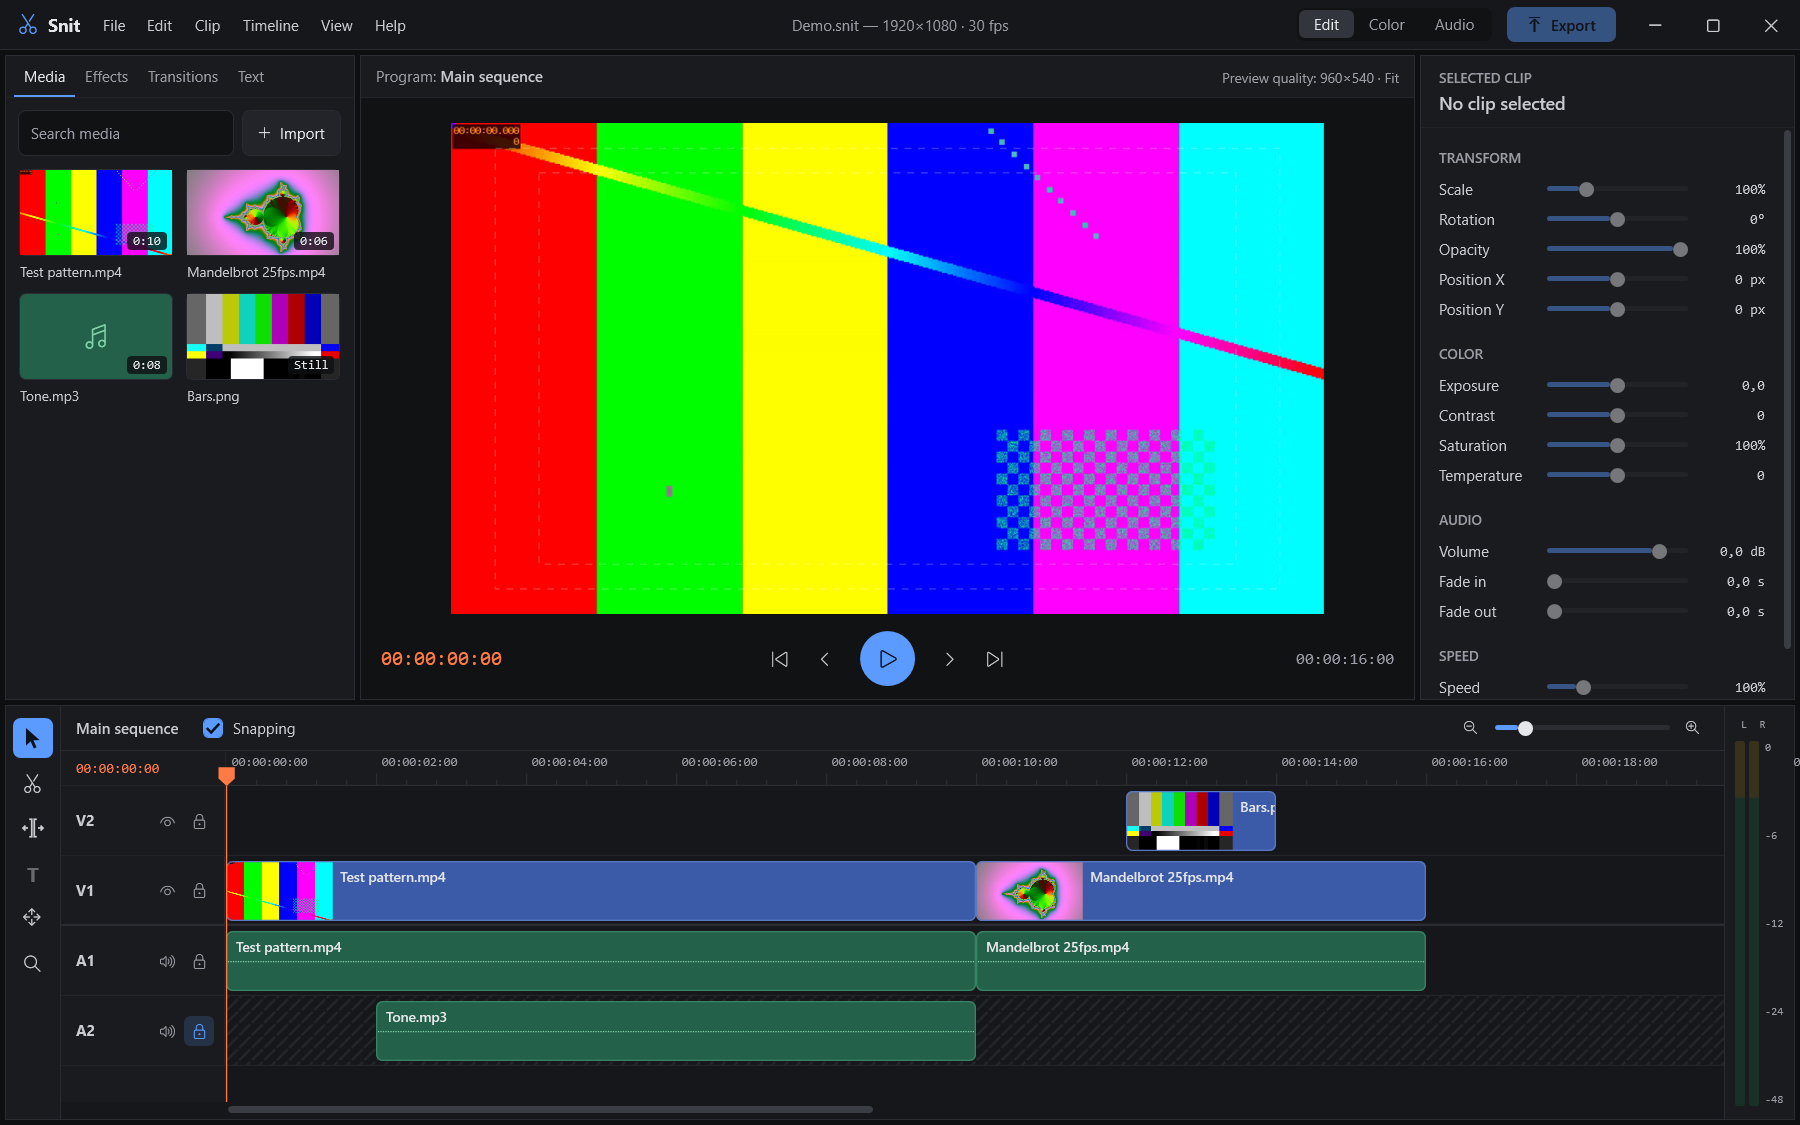
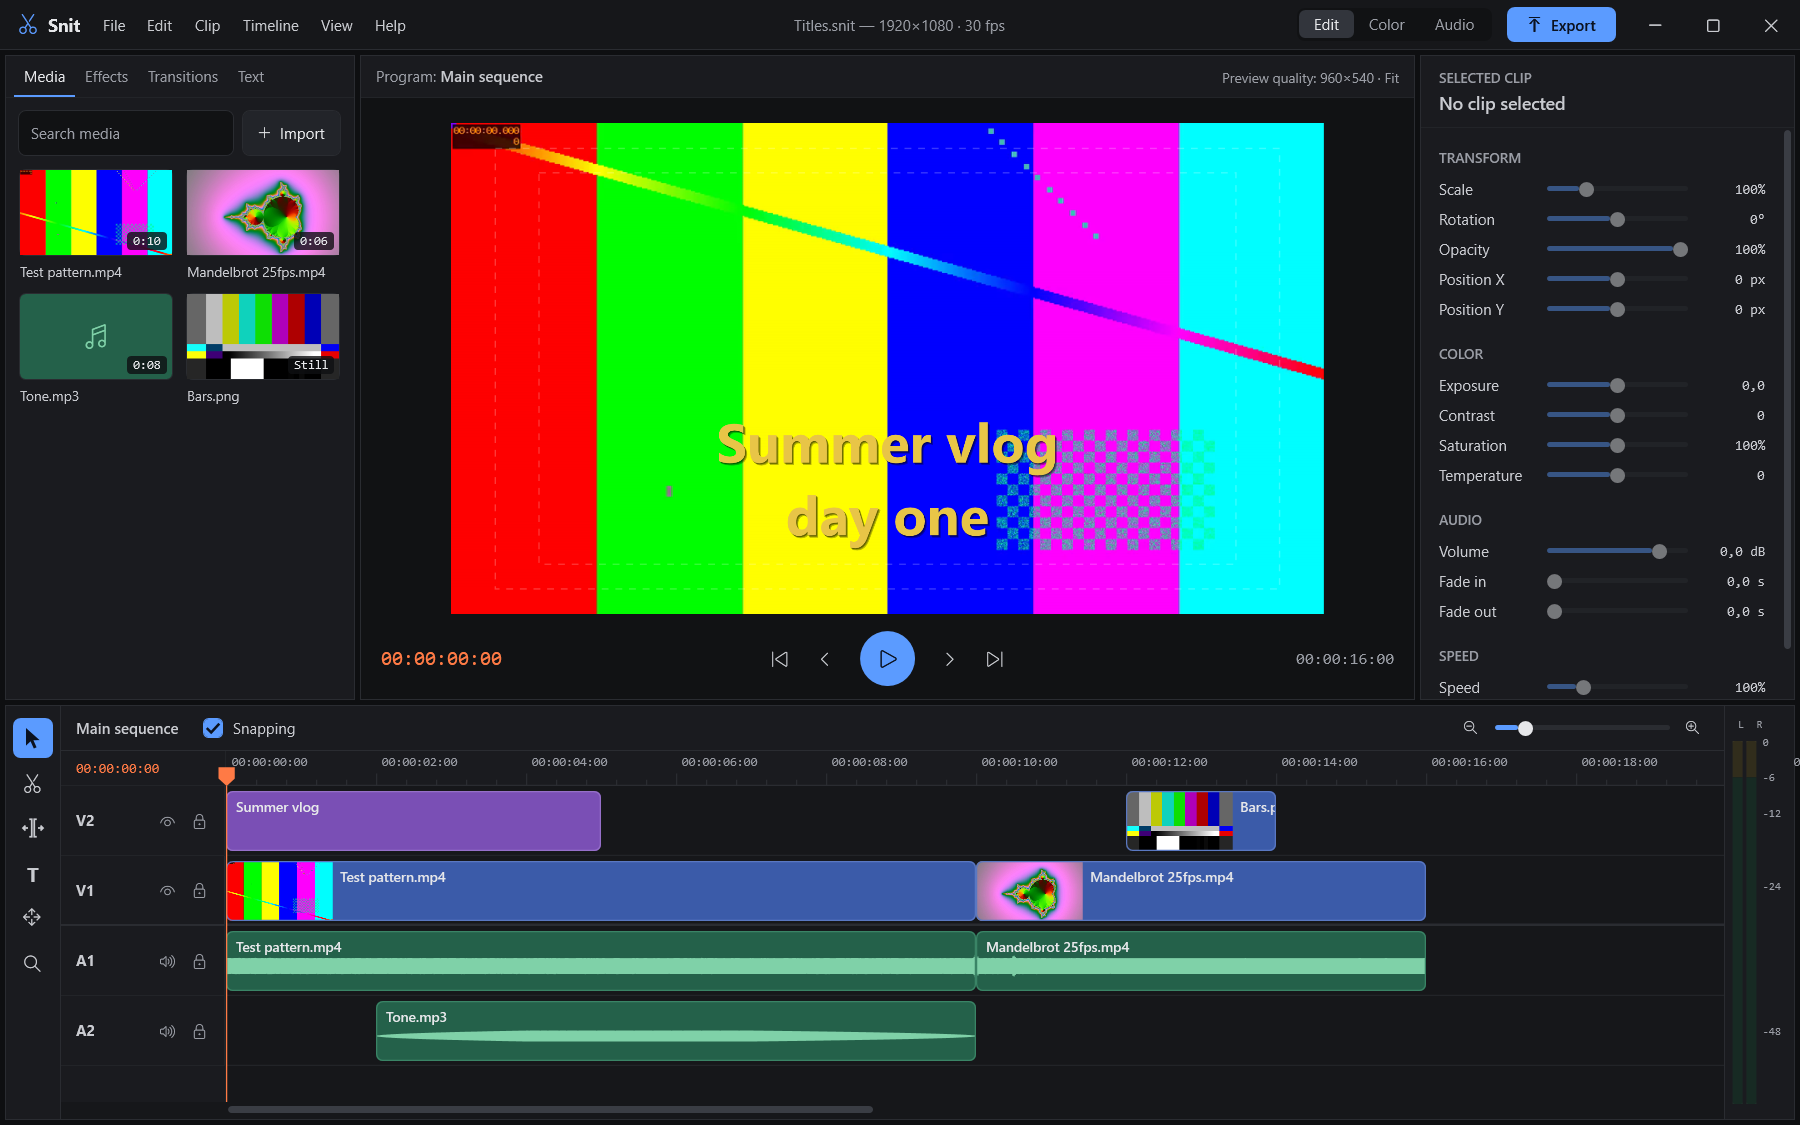
Describe titles and sound tools in the README, new screenshot

diff --git a/README.md b/README.md
@@ -8,7 +8,8 @@ It's built with C#, WPF and FFmpeg.
 ![Snit main window](docs/screenshot.png)
 
 > **Status:** work in progress. You can import media, edit on the timeline, preview with
-> sound, save projects and export to MP4. Titles, audio tools and effects are next.
+> sound, add titles, adjust clip volume and fades, save projects and export to MP4.
+> Picture effects (transform, colour, speed) are next.
 
 ## What works
 
@@ -17,7 +18,11 @@ It's built with C#, WPF and FFmpeg.
   trim edges, cut with the razor, delete or ripple-delete, snapping, hide/mute/lock tracks.
   Videos with sound get a linked audio clip that is edited together with the picture.
 - **Preview** with sound, frame-accurate scrubbing on the ruler, and frame-by-frame stepping
-- **Undo / redo** for every timeline edit
+- **Titles**: add with the T tool, the Text tab or "Add title at playhead"; change the text,
+  font, size, colour, bold, shadow and position in the inspector
+- **Sound**: waveforms on audio clips, per-clip volume and fade in/out in the inspector,
+  and live stereo level meters while playing
+- **Undo / redo** for every timeline edit (one slider drag or one bit of typing is one step)
 - **Projects** saved as `.snit` files (plain JSON; media files are referenced, never copied)
 - **Export** to MP4 (H.264 video, AAC 320 kbps sound) at 720p, 1080p, 4K or vertical 1080×1920,
   24–60 fps, with a quality slider, a progress bar with time left, and a Stop button.
@@ -88,6 +93,10 @@ Snit turns the timeline into a single `ffmpeg` command. Each clip becomes an inp
 used part of its file. The pictures are resized to the export size and laid over a black
 background at the right times (V2 on top of V1), and all sound clips are delayed to their
 place and mixed. `ffmpeg` reports which frame it is on, which drives the progress bar.
+
+Titles are drawn by Snit itself into see-through PNG pictures (the same drawing the preview
+shows), which `ffmpeg` lays over the video like any other picture. Clip volume and fades use
+the same `ffmpeg` sound recipe in the preview and in the export.
 
 ## Tests
 
